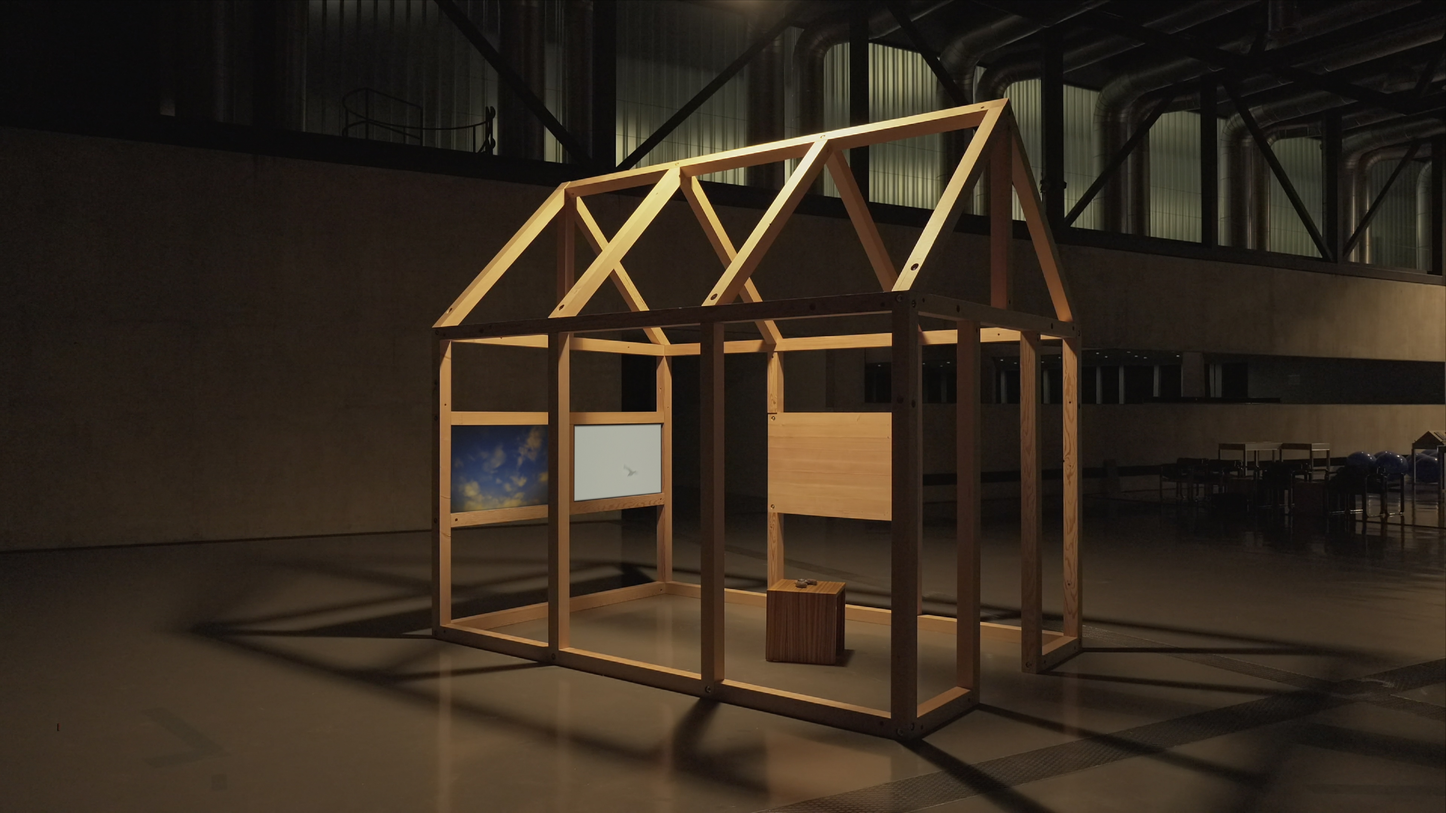
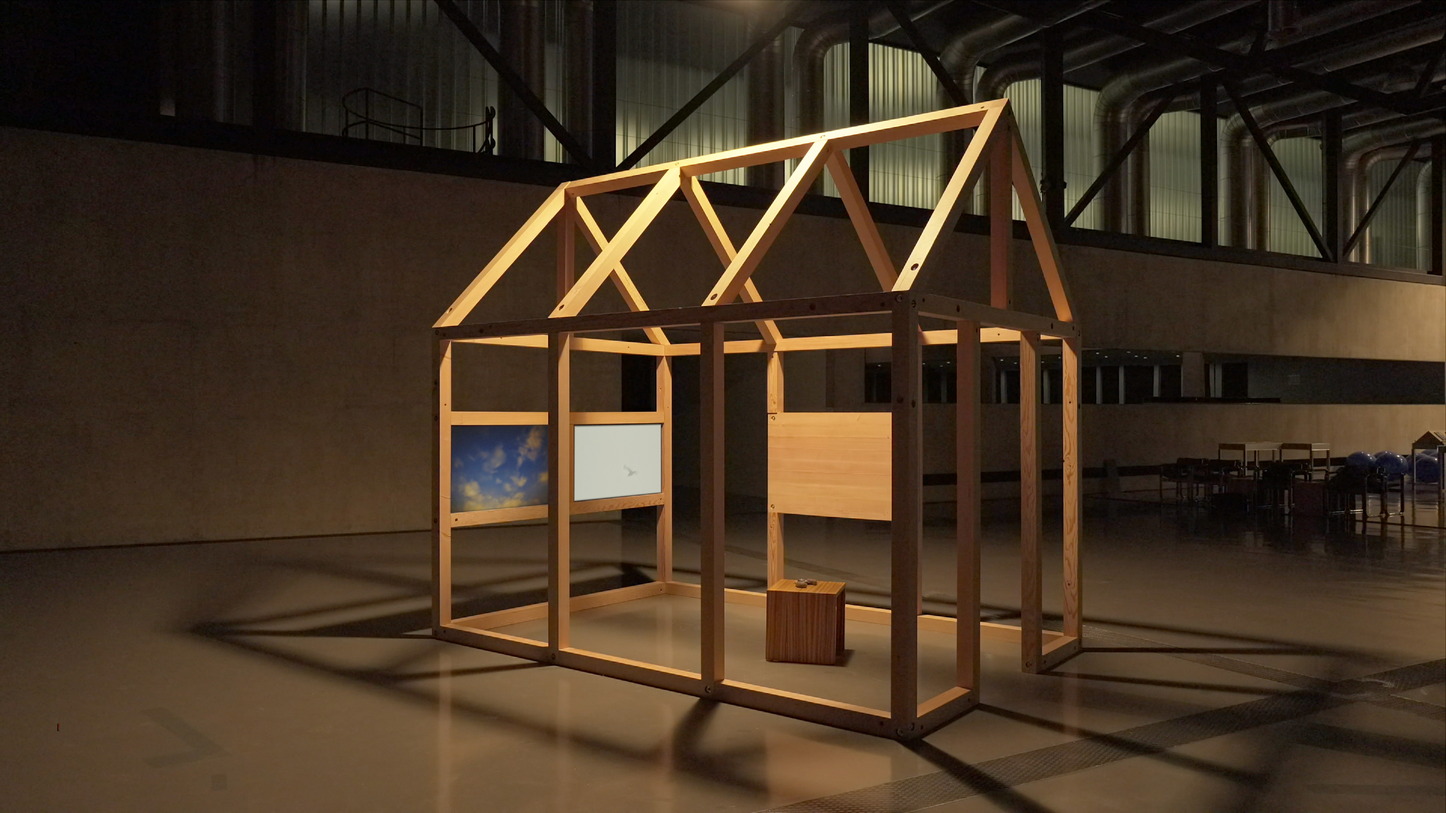
Image adjustment

diff --git a/readme.md b/readme.md
@@ -4,7 +4,7 @@
 ## Project
 Cowpokes riding through the ghost town of an abandoned Western. Isolated cabin, solitary frames, staring out onto the flickering plains of a mythology fading to red. A crossroads. Two mediums, revolvers drawn, caught in a deadly standoff.
 
-![Cowpoke Cabin - Side View](./presskit/images/playable-cinema-cowpoke-cabin-side-view.jpg)
+![Cowpoke Cabin - Side View](./presskit/images/head-irad-dead-crossing-cabin-cube.png)
 
 Playable Cinema is a research project exploring how artificial intelligence can ride the invisible frontier between cinema history and interactive gameplay. By using machine learning to analyze classical western cinema, the project constructs a generative database where fragments of film history and the streams of live gameplay bleed into one another; where the joystick becomes an editing tool for an infinite fever dream looping through the ghosts of cinematic history.
 
